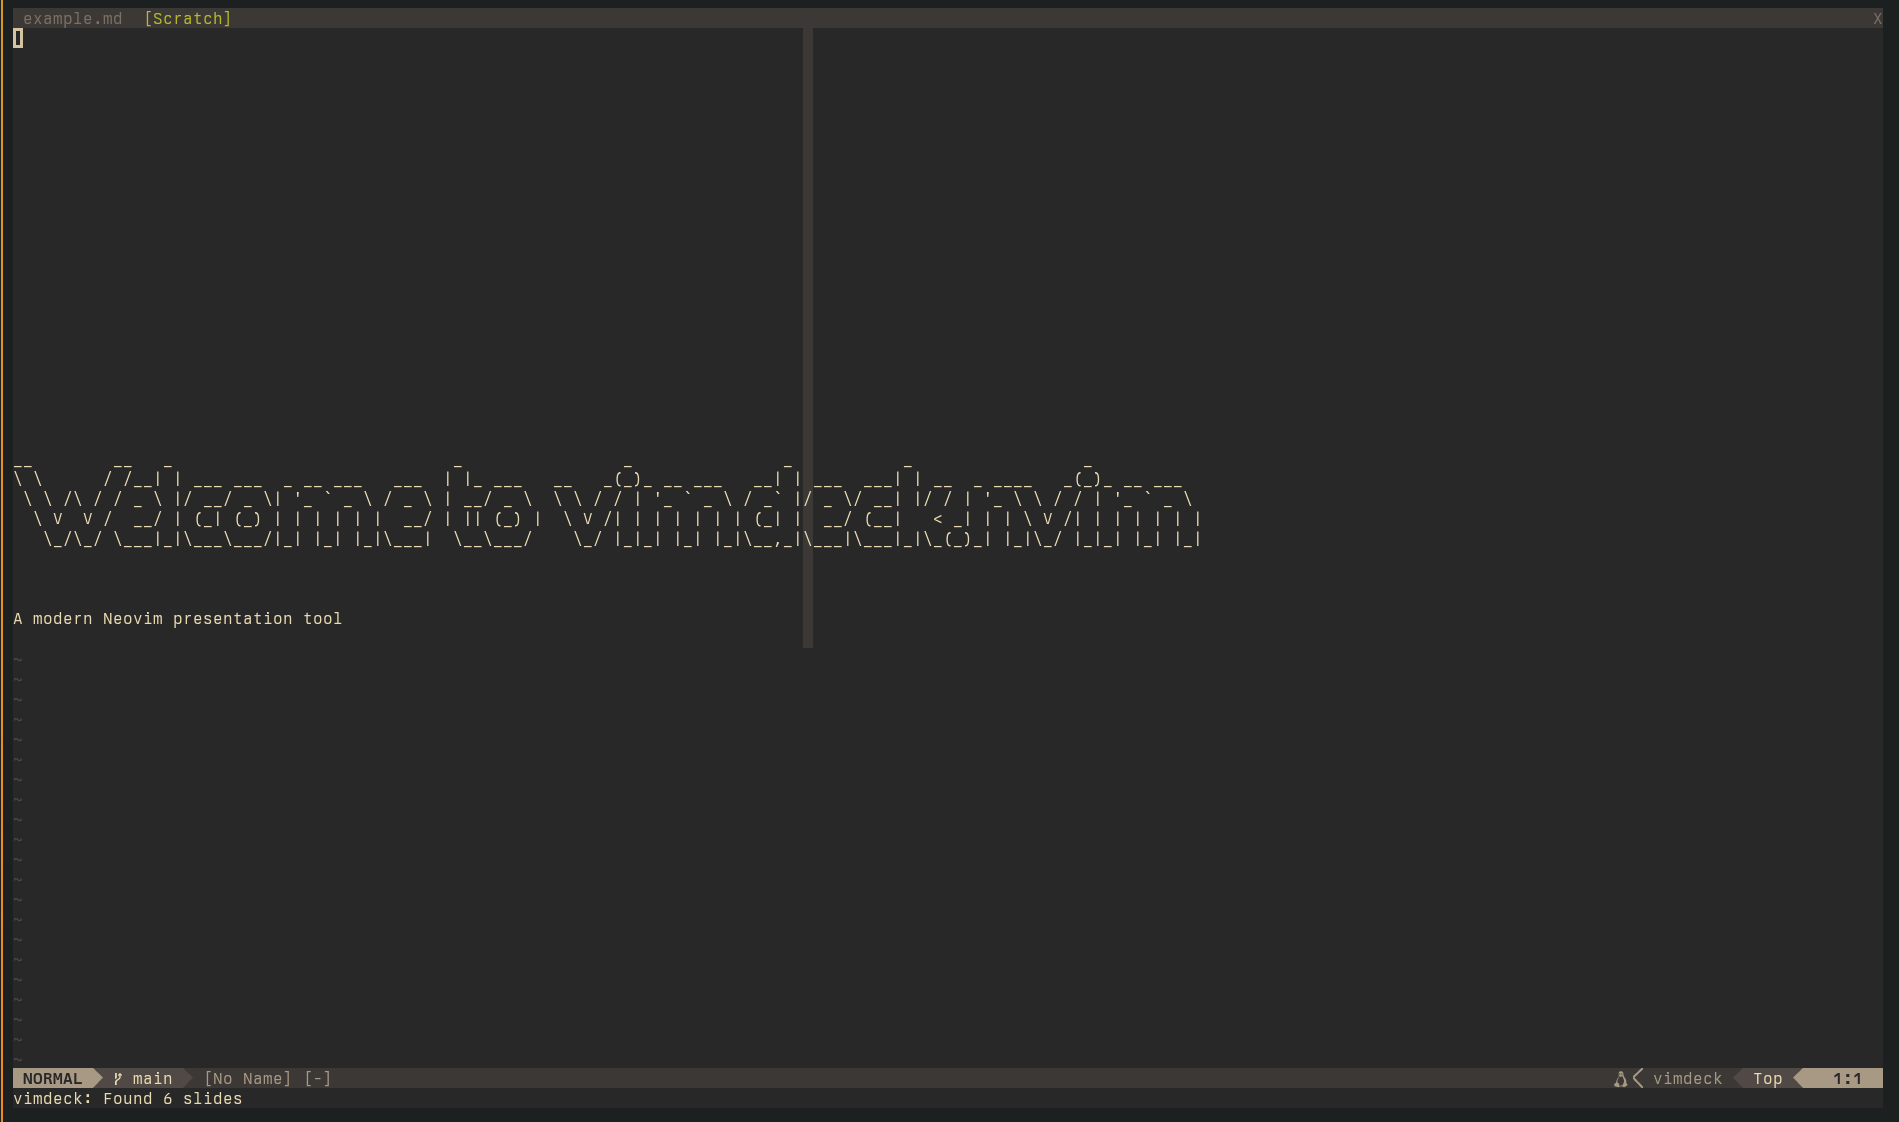
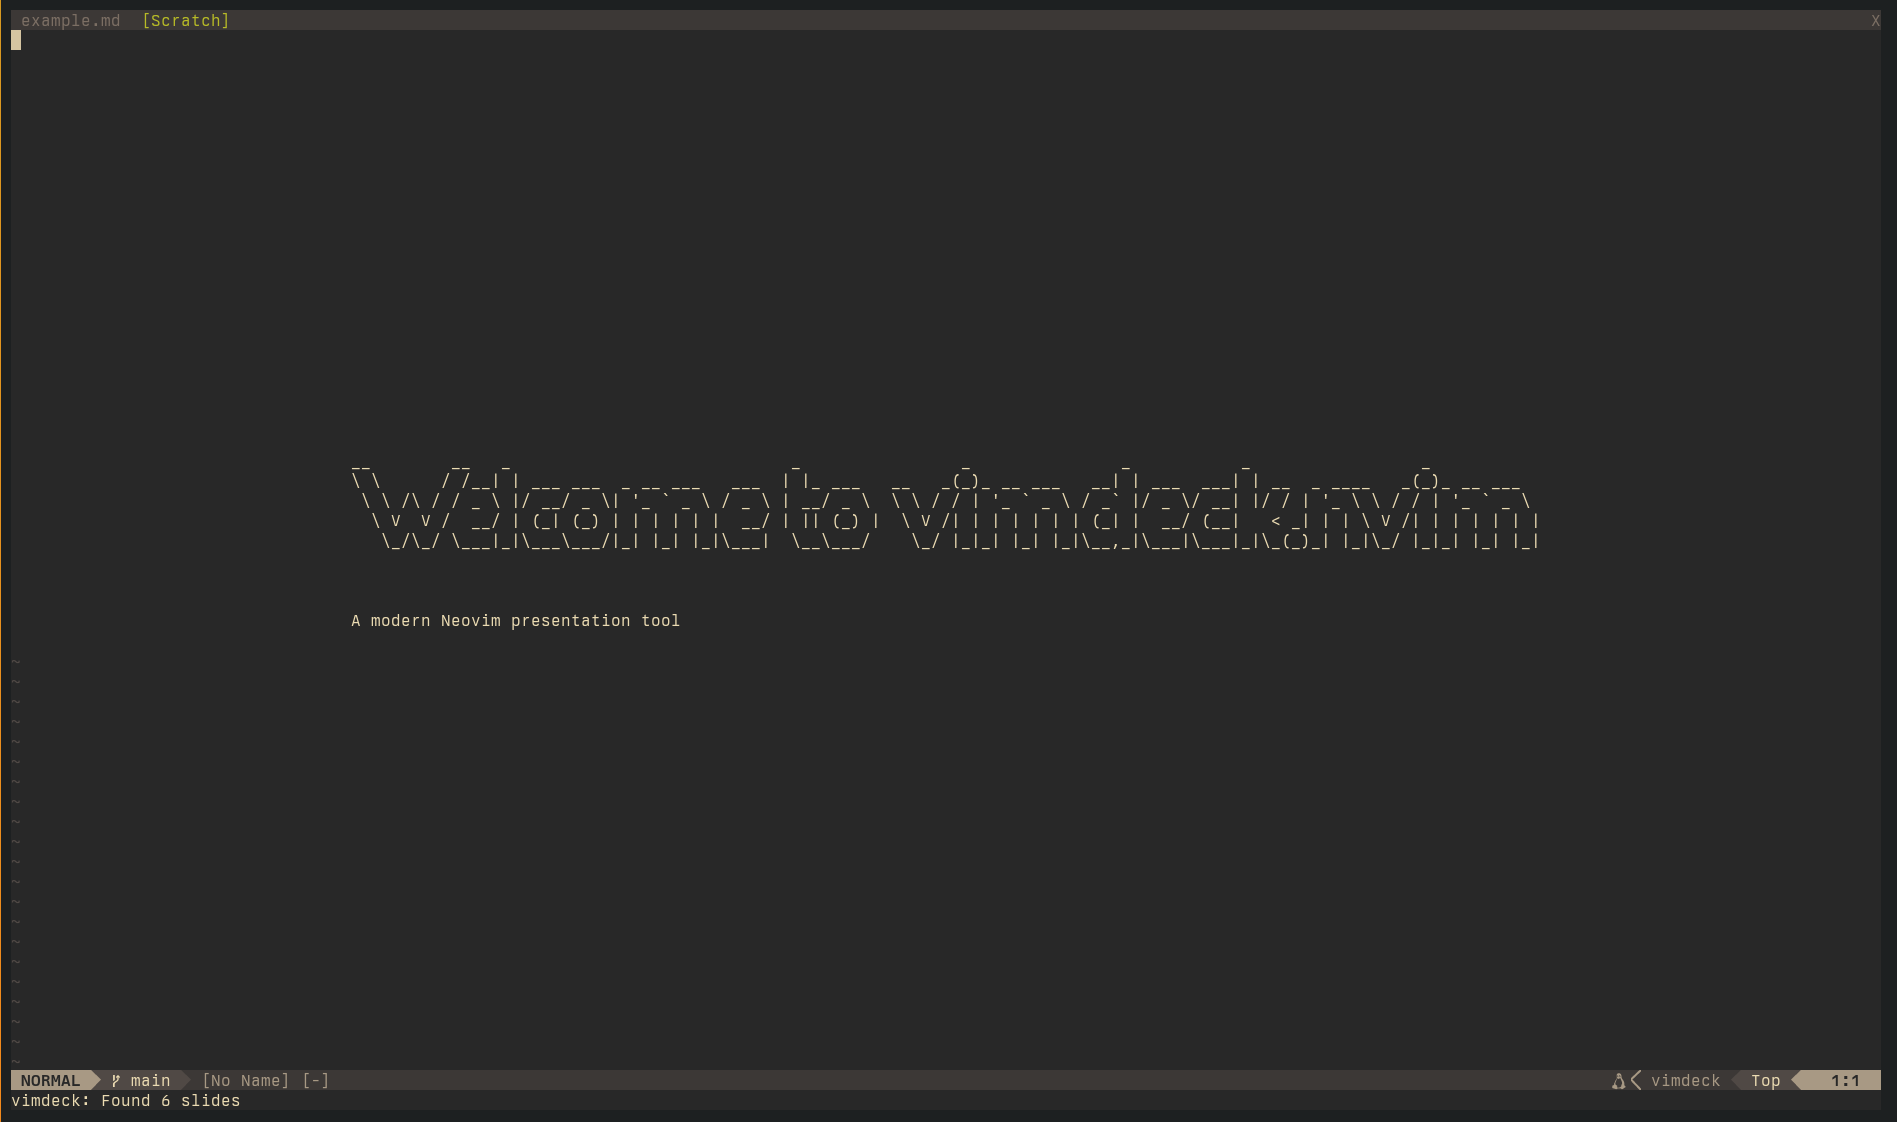
Update README with blog post images
- Add neovim-deck-prose.png and neovim-deck-heading.png screenshots
- Replace old navigation slide with prose slide at top
- Add lists/blockquotes image in markdown support section
- Screenshots now match blog post images

diff --git a/README.md b/README.md
@@ -6,7 +6,7 @@ and native Neovim features.
 
 ![ASCII art title slide](screenshots/neovim-deck-1.png)
 
-![Navigation slide](screenshots/neovim-deck-4.png)
+![Prose slide with centered text](screenshots/neovim-deck-prose.png)
 
 ## Features
 
@@ -177,6 +177,8 @@ end
 > This is a quote
 > It spans multiple lines
 ```
+
+![Lists and blockquotes slide](screenshots/neovim-deck-heading.png)
 
 ## Configuration
 
